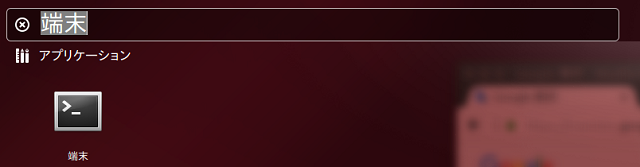
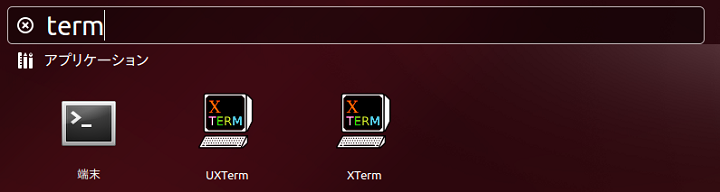
Modify wording and images

diff --git a/ja/tips/howto-use-commands.rst b/ja/tips/howto-use-commands.rst
@@ -2,22 +2,21 @@
 Linuxの基本的な使用方法について
 ==================
 
-Linuxの端末の起動方法やコマンドラインの使用方法について解説します。
+ここではUbuntu Linux 16.04で、標準のUnityデスクトップ環境を使う場合の端末の起動方法やコマンドラインの使用方法について解説します。
 
 .. contents::
    :local:
    
-Linuxの端末起動方法
-------------
+端末の起動方法
+-------
 
 .. |search_computer| image:: images/search_computer.png
 
 ホーム画面の左端に表示されているランチャーの「コンピュータを検索」 |search_computer| をクリックします。
 
-検索ボックスとアプリケーション等の一覧が表示されるので、検索ボックスに"端末"と入力します。
+検索ボックスとアプリケーション等の一覧が表示されるので、検索ボックスに"term" あるいは "端末"と入力します。
 
 .. image:: images/search_computer_window.png
-.. image:: images/search_computer_window2.png
 
 入力した結果「端末」が表示されるので、「端末」をクリックすると、「端末」が起動されます。
 
